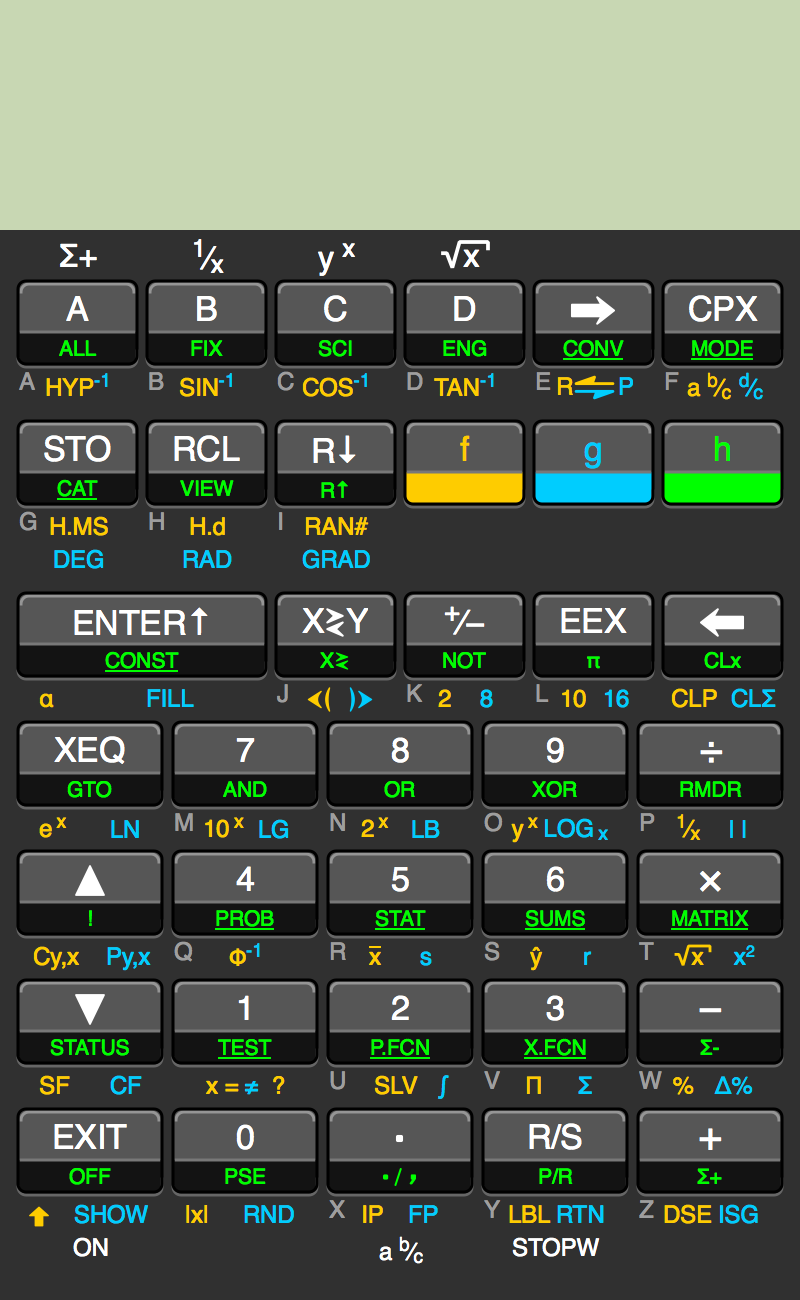
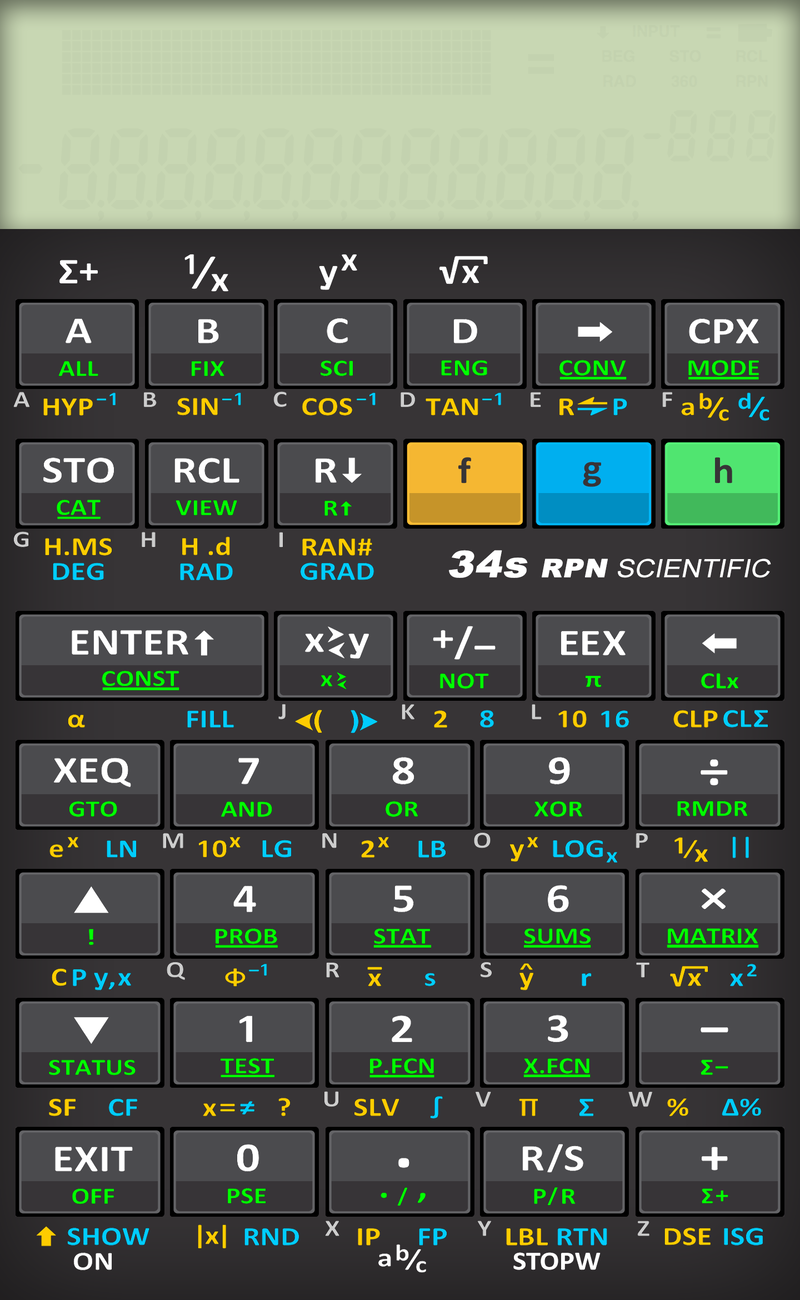
new retro skin

diff --git a/app/src/main/java/com/megatops/wp34s/MainActivity.java b/app/src/main/java/com/megatops/wp34s/MainActivity.java
@@ -22,9 +22,11 @@
 package com.megatops.wp34s;
 
 import androidx.appcompat.app.AppCompatActivity;
+import androidx.core.view.WindowCompat;
+import androidx.core.view.WindowInsetsControllerCompat;
 
 import android.annotation.SuppressLint;
-
+import android.content.pm.ActivityInfo;
 import android.content.res.AssetManager;
 import android.content.res.Configuration;
 import android.content.Context;
@@ -42,6 +44,7 @@ import android.os.Handler;
 import android.util.Log;
 import android.view.MotionEvent;
 import android.view.View;
+import android.view.Window;
 import android.view.WindowManager;
 
 import java.io.IOException;
@@ -71,6 +74,7 @@ public class MainActivity extends AppCompatActivity {
     @Override
     protected void onCreate(Bundle savedInstanceState) {
         super.onCreate(savedInstanceState);
+        setRequestedOrientation(ActivityInfo.SCREEN_ORIENTATION_PORTRAIT);
 
         Configuration conf = getResources().getConfiguration();
         getWindow().addFlags(WindowManager.LayoutParams.FLAG_KEEP_SCREEN_ON);
@@ -78,7 +82,27 @@ public class MainActivity extends AppCompatActivity {
         // setContentView(R.layout.activity_main);
 
         setContentView(new CalcView(this));
+        setupSystemBars();
         wp34sInit();
+    }
+
+    // change system bar color to match theme
+    @SuppressWarnings("deprecation")
+    private void setupSystemBars() {
+        Window window = getWindow();
+
+        window.addFlags(WindowManager.LayoutParams.FLAG_DRAWS_SYSTEM_BAR_BACKGROUNDS);
+        window.clearFlags(
+                WindowManager.LayoutParams.FLAG_TRANSLUCENT_STATUS |
+                        WindowManager.LayoutParams.FLAG_TRANSLUCENT_NAVIGATION
+        );
+        window.setStatusBarColor(Color.parseColor("#292729"));
+        window.setNavigationBarColor(Color.parseColor("#272526"));
+
+        WindowInsetsControllerCompat controller =
+                WindowCompat.getInsetsController(window, window.getDecorView());
+        controller.setAppearanceLightStatusBars(false);
+        controller.setAppearanceLightNavigationBars(false);
     }
 
     public static void logString(String text)
@@ -357,12 +381,14 @@ class CalcView extends View
     /* Return the row, common to all keys */
     private int retrieveRow(int y)
     {
+        final int yoffset = 19; // move the keypad down for better view
+
         /* Coordinate points of corners of buttons in all rows */
         final int yrow[] = {280, 365, 420, 504, 592, 677, 720, 808, 850, 935, 980, 1064,
                 1108, 1194};
         for (int i = 0; i < 7; i++) {
-            int min = yrow[(i * 2)];
-            int max = yrow[(i * 2) + 1];
+            int min = yrow[(i * 2)] + yoffset;
+            int max = yrow[(i * 2) + 1] + yoffset;
             if ((y >= min) && (y <= max)) {
                 return i;
             }
